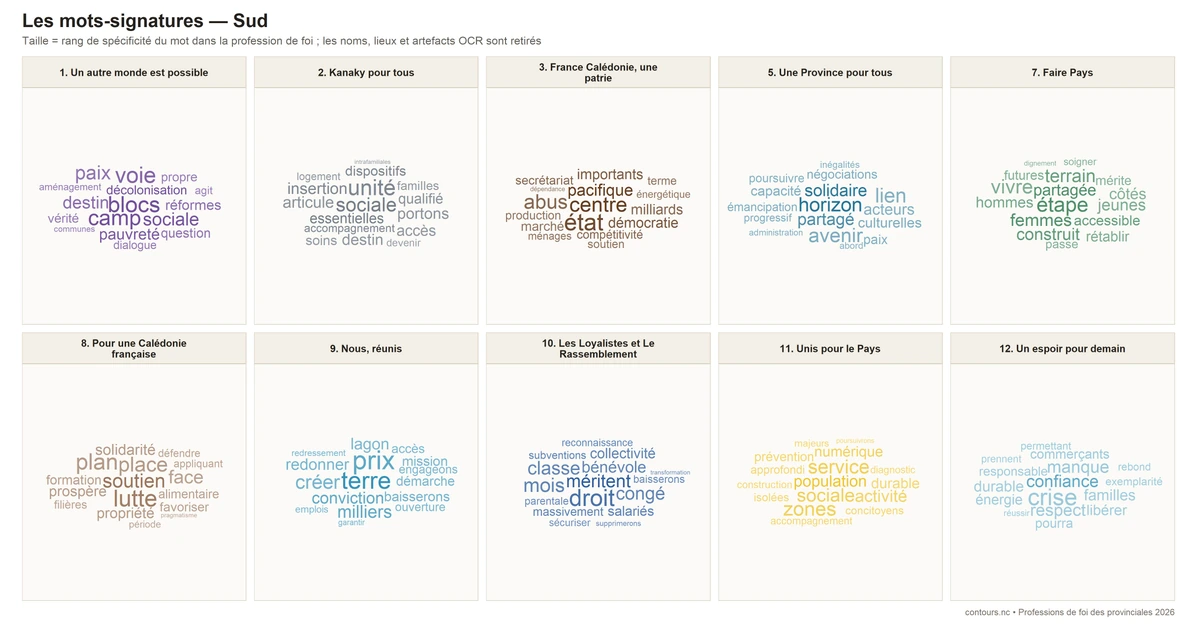
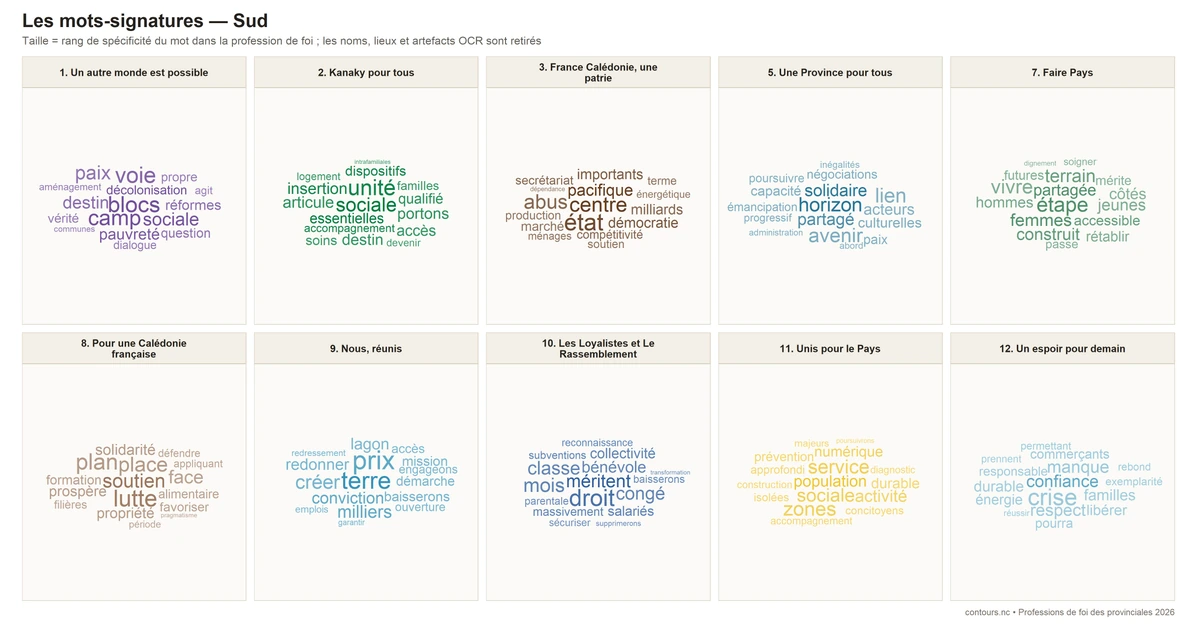
ajout article provinciales

Changed region(s): [[0.2158, 0.2413, 0.37, 0.3921]]

diff --git a/docs/posts/provinciales-2026-professions-foi/index.html b/docs/posts/provinciales-2026-professions-foi/index.html
@@ -856,7 +856,7 @@ Démocratie participative
 </span>
 </div>
 </article>
-<article class="theme-portrait" style="--list-color:#747D88;">
+<article class="theme-portrait" style="--list-color:#007A3D;">
 <div class="theme-portrait__identity">
 <span class="theme-portrait__number">Liste 2</span>
 <h3 class="theme-portrait__title anchored">
@@ -1152,13 +1152,13 @@ Un autre monde est possible
 </ul>
 <a class="program-card__source" href="https://www.nouvelle-caledonie.gouv.fr/contenu/telechargement/13446/111803/file/01_%5BProfession+de+foi+A4+groupe+recto%5D+un+autre+monde.pdf" target="_blank" rel="noopener">Lire la circulaire officielle ↗</a>
 </article>
-<article class="program-card" style="--list-color:#747D88;">
+<article class="program-card" style="--list-color:#007A3D;">
 <div class="program-card__topline">
 <span class="program-card__number">Liste 2</span>
 <span class="program-card__precision high">Mesures détaillées</span>
 </div>
 <h3 class="program-card__title anchored">
-<span class="program-card__dot" style="--list-color:#747D88;" aria-hidden="true"></span>
+<span class="program-card__dot" style="--list-color:#007A3D;" aria-hidden="true"></span>
 Kanaky pour tous
 </h3>
 <p class="program-card__camp">Indépendantiste / souverainiste</p>
